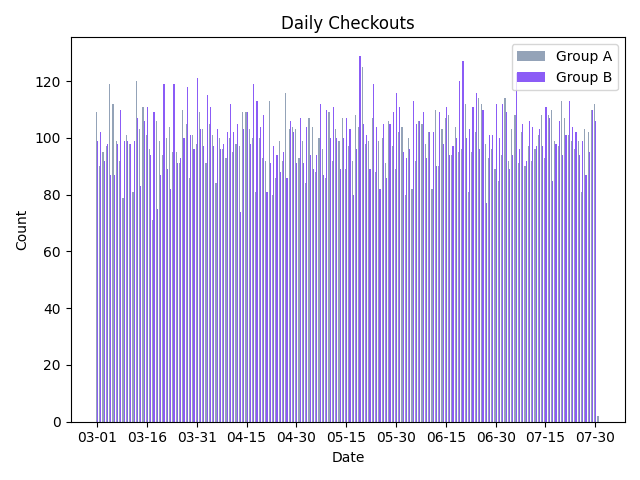
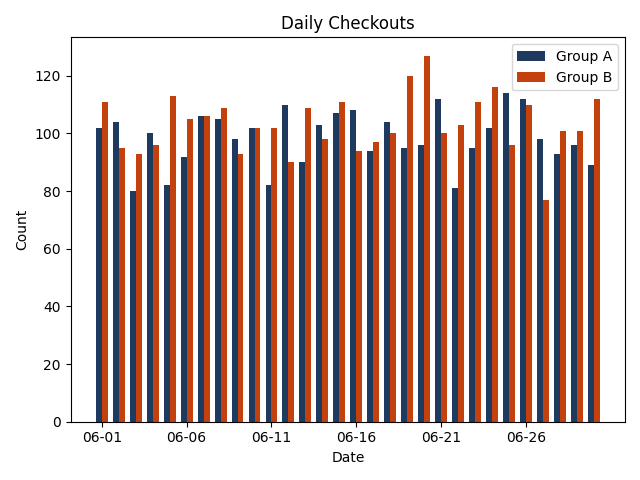
Readme and plots

diff --git a/scripts/collect_experiment_data.py b/scripts/collect_experiment_data.py
@@ -22,25 +22,41 @@ def get_pivoted_df_by_event_type(df, event_name, value_col='event_type', agg_fun
     )
     return pivoted.rename(columns={value_col : 'value'})
 
-def plot_chart(df, title, ylabel, filename):
+def plot_bar(df, title, ylabel, filename):
     dates = df.index
     x = np.arange(len(dates))
     width = 0.35
     
-    plt.bar(x - width/2, df['A'], width, label='Group A', color='#94A3B8')
-    plt.bar(x + width/2, df['B'], width, label='Group B', color="#8B5CF6")
+    plt.bar(x - width/2, df['A'], width, label='Group A', color='#1F3A5F')
+    plt.bar(x + width/2, df['B'], width, label='Group B', color="#C2410C")
     
     plt.title(title)
     plt.xlabel('Date')
     plt.ylabel(ylabel)
-    plt.xticks(x[::15], [d.strftime('%m-%d') for d in dates[::15]])
+    plt.xticks(x[::5], [d.strftime('%m-%d') for d in dates[::5]])
     plt.legend()
     plt.tight_layout()
     plt.savefig(filename)
     plt.close()
 
-def visualize_daily_metrics(engine):
-    query = "SELECT * FROM DailyMetrics ORDER BY date"
+def plot_chart(df, title, ylabel, filename):
+    dates = df.index
+    x = np.arange(len(dates))
+    
+    plt.plot(x, df['A'], label='Group A', color='#1F3A5F')
+    plt.plot(x, df['B'], label='Group B', color="#C2410C")
+    
+    plt.title(title)
+    plt.xlabel('Date')
+    plt.ylabel(ylabel)
+    plt.xticks(x[::5], [d.strftime('%m-%d') for d in dates[::5]])
+    plt.legend()
+    plt.tight_layout()
+    plt.savefig(filename)
+    plt.close()
+
+def visualize_daily_metrics(engine, start_date, end_date):
+    query = f"SELECT * FROM DailyMetrics WHERE date BETWEEN '{start_date}' AND '{end_date}' ORDER BY date"
     df = pd.read_sql(query, con=engine)
     df['date'] = pd.to_datetime(df['date']).dt.date
 
@@ -49,12 +65,19 @@ def visualize_daily_metrics(engine):
     df_count_checkout = get_pivoted_df_by_event_type(df, 'checkout', value_col='event_count', agg_func='sum')
     df_count_purchase = get_pivoted_df_by_event_type(df, 'purchase', value_col='event_count', agg_func='sum')
     df_value_purchase = get_pivoted_df_by_event_type(df, 'purchase', value_col='total_revenue', agg_func='sum')
+    
+    df_unique_checkout = get_pivoted_df_by_event_type(df, 'checkout', value_col='unique_users', agg_func='sum')
+    df_unique_purchase = get_pivoted_df_by_event_type(df, 'purchase', value_col='unique_users', agg_func='sum')
+    df_cr = df_unique_purchase / df_unique_checkout
+    df_cr = df_cr.fillna(0)
 
-    plot_chart(df_count_view, 'Daily Views', 'Count', './/assets//count_views.png')
-    plot_chart(df_count_add_to_basket, 'Daily Add to Basket', 'Count', './/assets//count_baskets.png')
-    plot_chart(df_count_checkout, 'Daily Checkouts', 'Count', './/assets//count_checkouts.png')
-    plot_chart(df_count_purchase, 'Daily Purchases', 'Count', './/assets//count_purchase.png')
-    plot_chart(df_value_purchase, 'Daily Revenue', 'Revenue ($)', './/assets//revenue.png')
+    plot_bar(df_count_view, 'Daily Views', 'Count', './/assets//count_views.png')
+    plot_bar(df_count_add_to_basket, 'Daily Add to Basket', 'Count', './/assets//count_baskets.png')
+    plot_bar(df_count_checkout, 'Daily Checkouts', 'Count', './/assets//count_checkouts.png')
+    plot_bar(df_count_purchase, 'Daily Purchases', 'Count', './/assets//count_purchase.png')
+    plot_bar(df_value_purchase, 'Daily Revenue', 'Revenue ($)', './/assets//revenue.png')
+    plot_bar(df_cr, 'Daily Conversion Rate', 'Conversion Rate', './/assets//daily_cr.png')
+    plot_chart(df_cr, 'Daily Conversion Rate', 'Conversion Rate', './/assets//daily_cr_line.png')
 
 def populate_daily_metrics(engine, experiment_id):
     with engine.connect() as conn:
@@ -83,7 +106,8 @@ def plot_revenue_histogram(engine, start_date, end_date):
     sql_str = f"SELECT * FROM dbo.GetTotalRevenueByUser('{start_date}', '{end_date}')"
     df = pd.read_sql(sql_str, con=engine)
 
-    plt.figure(figsize=(10, 6))
+    
+    # plt.figure(figsize=(10, 6))
     plt.hist(df['revenue_sum'], bins=20, color='#94A3B8')
     plt.title('Experiment Revenue Distribution')
     plt.xlabel('Revenue by user($)')
@@ -109,7 +133,7 @@ if __name__ == "__main__":
     experiment_data.to_csv('.//assets//experiment_basic_data.csv', float_format="%.2f",index=False, mode='w')
 
     #Save plots in assets folder
-    visualize_daily_metrics(engine)
+    visualize_daily_metrics(engine, start_date, end_date)
     plot_revenue_histogram(engine, start_date, end_date)
     print("Plots saved successfully.")
     

diff --git a/README.md b/README.md
@@ -1,55 +1,115 @@
-# E-commerce A\B test
+# E-commerce A/B test
 
-## Projekt description
-A E-commerce store wants to add a new Payment Service Provider. The team wants to implement buttons for Apple Pay and Google Pay at the top of the final payment step. With the help of AB test the team checks the efficiency of implementation.
+## Project Description
+An E-commerce store wants to add a new Payment Service Provider. The team wants to implement buttons for Apple Pay and Google Pay at the top of the final payment step. With the help of an A/B test, the team checks the efficiency of the implementation.
 
-All the data is generated with python and faker.
+All the data is generated with Python and Faker.
 
-## Data generation
+<details>
+  <summary>Data generation</summary>
+</details>
+ 
 
 ## Workflow
 ### 1. Choose metrics and fix hypothesis
-- Conversion rate 1 (CR 1) = Unique users with purchase / Unique users with view
-- Conversion rate 2 (CR 2) = Unique users with purchase / Unique users with checkout
-- ARPU = Total revenue / Unique users with view
+*   **Conversion Rate (CR)**:
+    $$ CR = \frac{\text{Unique users with purchase}}{\text{Unique users with checkout}} $$
+*   **ARPU (Average Revenue Per User)**:
+    $$ ARPU = \frac{\text{Total revenue}}{\text{Unique users with view}} $$
 
-I choose CR as the Primary Metric with a 5% MDE because it is more sensitive to the UX changes of a new payment gateway. I kept ARPU as a Secondary  Metric with a 10% MDE to ensure that while I increased conversion, I didn't accidentally lower the total order value
+I chose CR as the Primary Metric with a 5% MDE because it is more sensitive to the UX changes of a new payment gateway. I kept ARPU as a Secondary Metric with a 10% MDE to ensure that while I increased conversion, I didn't accidentally lower the total order value.
 
 ### 2. Choose randomization method and samples parameters
-Users were splitted 50-50 randomly. 
+Users were split 50-50 randomly.
 
 ### 3. Fix the sample size
 
-Data from metrics_stats.csv
-Sample size n for each (treatment, control) group
- 
-import numpy as np
-import scipy as sp
+The sample size $n$ for each group is calculated using the standard formula for comparing means/proportions:
 
-n = (np.var(control, ddof=1)+np.var(treatment, ddof=1))*((sp.stats.norm.ppf(alpha/2, mu=0, sigma=1)+sp.stats.norm.ppf(beta, mu=0, sigma=1))**2)/(mde**2)
+$$ n = \frac{2\sigma^2(Z_{\alpha/2} + Z_{\beta})^2}{\delta^2} $$
 
-alpha - significance level, probability of error type I
-beta - probability of error type II
-
-mde - minimum detectable effect, the smallest improvement or change in metric that an experiment is designed to reliably detect as statistically significant.
-Variance(var_history) can be calculated as mean variance for N (N=5) previous months excluding months-outliers 
-n = 2*var_history*((sp.stats.norm.ppf(alpha/2, mu=0, sigma=1)+sp.stats.norm.ppf(beta, mu=0, sigma=1))**2)/(mde**2)
+Where:
+*   $\alpha$: Significance level (probability of Type I error)
+*   $\beta$: Probability of Type II error ($1 - \text{Power}$)
+*   $\delta$: Minimum Detectable Effect (MDE)
+*   $\sigma^2$: Mean monthly variance of the metric in history
 
 
-### 4. Start the experiment and collect data
-Data from experiment_basic_data.csv
-| test_group | add_to_basket | checkout | purchase | view  |  cr  | arpu |
-|------------|---------------|----------|----------|-------|------|------|
-| A          | -         | -     |-     | - | - | - |
-| B          | -        | -     | -     | - | - | - |
+**Calculated Sample Parameters (`assets/metrics_stats.csv`):**
+
+| Metric | History Mean | History Var | MDE | Sample Size | Duration (Months) |
+| :--- | :--- | :--- | :--- | :--- | :--- |
+| ARPU | 17.20 | 1494.77 | 1.72 | 7934 | 1.63 |
+| CR | 0.67 | 0.22 | 0.03 | 3152 | 0.65 |
+
+I decided to run the experiment for 1 months to collect enough data for primary metric.
+Implementation of the formula in Python can be found in the script (`scripts/fix_sample_size.py`).
+
+### 4. Start the experiment and collect 
+Implementation of the basic data analysis you can find in the script (`scripts/collect_experiment_data.py`).
+
+**Experiment Statistics (`assets/experiment_basic_data.csv`):**
+
+| test_group | view_count | add_to_basket_count | checkout_count | purchase_count | conversion_rate | arpu |
+| :--- | :--- | :--- | :--- | :--- | :--- | :--- |
+| A | 4855 | 3590 | 2253 | 1480 | 0.66 | 16.20 |
+| B | 4935 | 3719 | 2349 | 1618 | 0.69 | 17.88 |
+
+**Daily CR and Revenue distribution:**
+
+<img src="assets/daily_cr.png" width="45%" /> <img src="assets/experiment_revenue_histogram.png" width="45%" />
+
 
 ### 5. Validate the experiment
-A/A test 
+Implementation of the basic data validation is in the script (`scripts/validate_experiment.py`).
+#### 5.1. Sample Ratio Mismatch (SRM)
+Sample Ratio Mismatch (SRM) indicates that the observed sample ratio differs significantly from the expected 50:50 split. This often points to data quality issues or bugs in assignment. I used the Chi-Square Goodness of Fit test.
 
-A/A test passed! 
-Can't reject null-hypothesis as P-value test for CR 0.2546.
+```text
+No SRM Detected.
+P-value for Chi-Square Goodness of Fit is 0.44
+```
+
+#### 5.3. A/A Tests
+A/A tests were performed on historical data to ensure the splitting mechanism is unbiased for both CR and Revenue. For CR I user classical two-proportion Z-test, for Revenue I used Mann-Whitney U-test.
+
+```text
+A/A test for CR passed.
+Can't reject null-hypothesis as P-value for CR test 0.79.
 Samples A and B on history data do not represent significantly difference.
 
-Sample Ratio Mismatch
+A/A test for revenue passed.
+Can't reject null-hypothesis as P-value for ARPU test 0.42.
+Samples A and B on history data do not represent significantly difference.
+```
 
 ### 6. Analyse the experiment data and make the decision
+Implementation of the experiment analysis is in the script (`scripts/analyse_experiment_data.py`).
+#### 6.1. A/B test for CR
+I used the two-proportion Z-test:
+
+$$ Z = \frac{p_B - p_A}{\sqrt{\frac{p_A(1-p_A)}{n_A} + \frac{p_B(1-p_B)}{n_B}}} $$
+
+Where p_A and p_B are the conversion rates for groups A and B, and n_A and n_B are the number of users in each group.
+
+#### 6.2. A/B test for ARPU
+I used the Mann-Whitney U-test to compare the revenue distributions. This non-parametric test is chosen because revenue data is typically non-normal and skewed (as seen in the histogram), making standard t-tests unreliable. It assesses whether the distribution of the test group is stochastically different from the control group without assuming a normal distribution.
+
+```text
+A/B test for CR passed.
+Can reject null-hypothesis as P-value for CR test 0.00076.
+Samples A and B represent significantly difference.
+Saved CR results to ExperimentMetrics.
+
+A/B test for revenue passed.
+Can reject null-hypothesis as P-value for ARPU test 0.01.
+Samples A and B on history data represent significantly difference.
+Saved ARPU results to ExperimentMetrics.
+```
+
+## Conclusion
+Based on the statistical analysis: 
++ Conversion Rate: The test group (B) showed a statistically significant improvement in conversion rate compared to the control group (A). 
++ ARPU: The Average Revenue Per User also showed a statistically significant increase. 
+
+Decision: The introduction of Apple Pay and Google Pay buttons has positively impacted both conversion and revenue. It is recommended to roll out the new payment provider to 100% of users.
